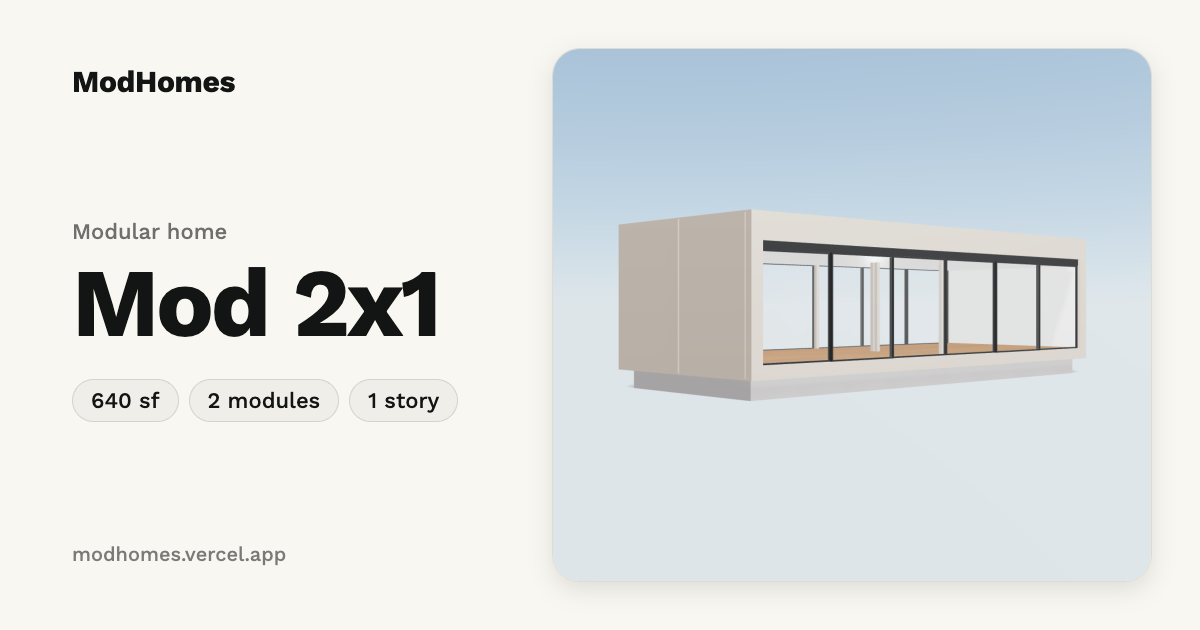
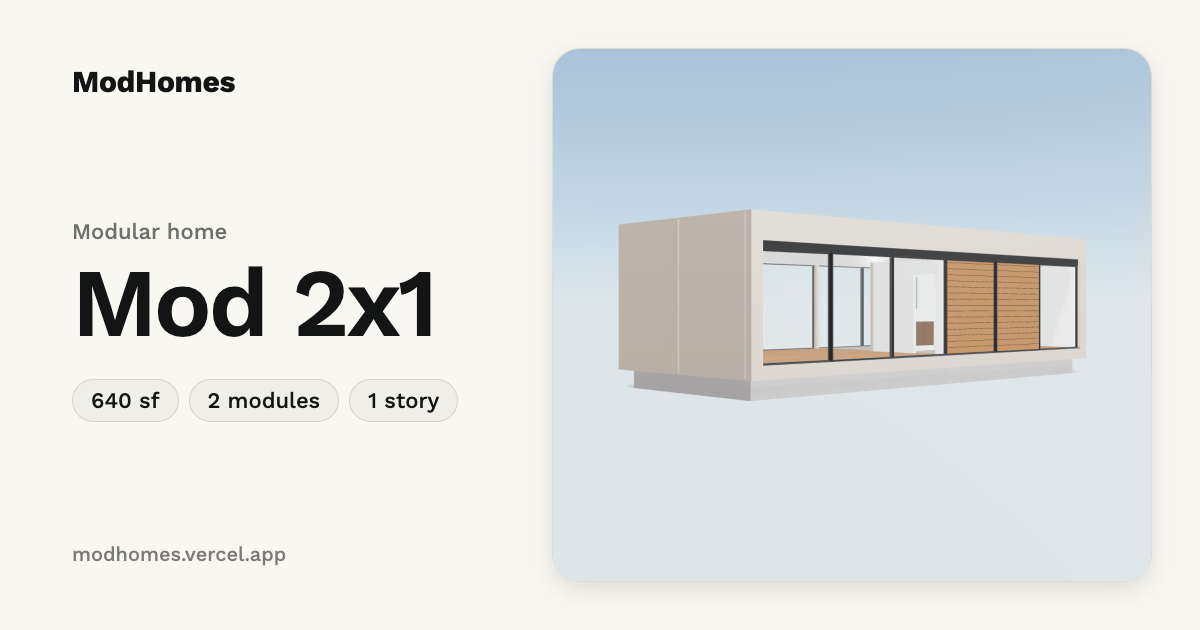
feat: lighten the hero title and refresh the share images
Load Work Sans at 400-700 instead of 400 alone, so bold text uses the
real weights rather than a browser-synthesised bold, and set the
landing title to 600. Re-render every share card from the current 3D
scenes so they show the new kitchens, baths, siding and sills, with
their titles at 600 to match.

Changed region(s): [[0.0617, 0.4222, 0.37, 0.5429], [0.7092, 0.3921, 0.8633, 0.573]]

diff --git a/pages/_document.tsx b/pages/_document.tsx
@@ -7,7 +7,7 @@ export default function Document() {
         <link rel="preconnect" href="https://fonts.googleapis.com" />
         <link rel="preconnect" href="https://fonts.gstatic.com" />
         <link
-          href="https://fonts.googleapis.com/css2?family=Work+Sans&display=swap"
+          href="https://fonts.googleapis.com/css2?family=Work+Sans:wght@400;500;600;700&display=swap"
           rel="stylesheet"
         ></link>
       </Head>

diff --git a/components/landinghero.tsx b/components/landinghero.tsx
@@ -84,7 +84,7 @@ const LandingHero = ({ handleScroll }: LandingHeroProps) => {
         >
           <Typography
             variant="h1"
-            fontWeight={700}
+            fontWeight={600}
             fontSize={isMobile ? "62px" : "92px"}
             lineHeight={1}
           >

diff --git a/components/navbar.tsx b/components/navbar.tsx
@@ -55,7 +55,7 @@ const NavBar = () => {
     >
       <Typography
         variant="h5"
-        fontWeight={700}
+        fontWeight={600}
         marginLeft={{ xs: "1.25rem", sm: "1.75rem" }}
       >
         <Link href="/">ModHomes</Link>
